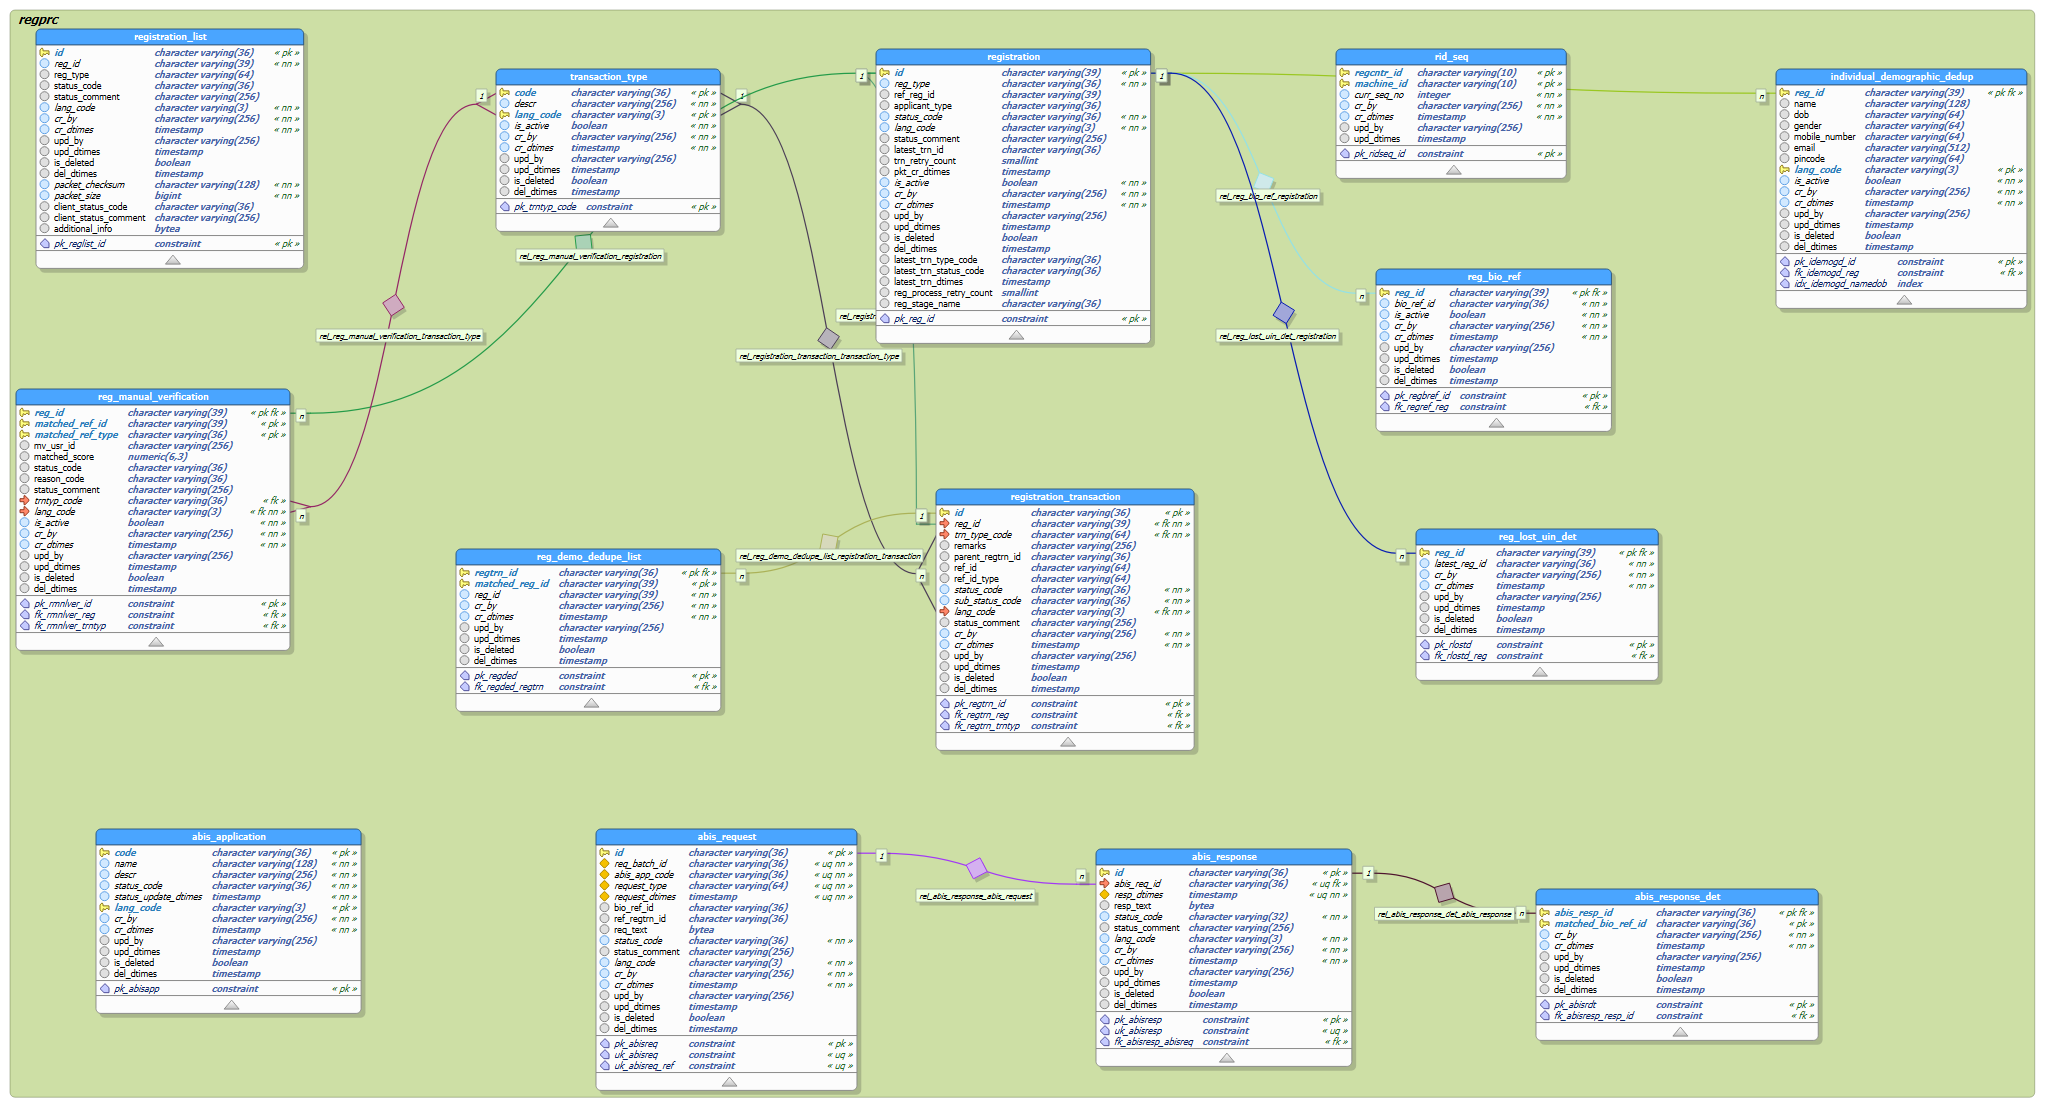
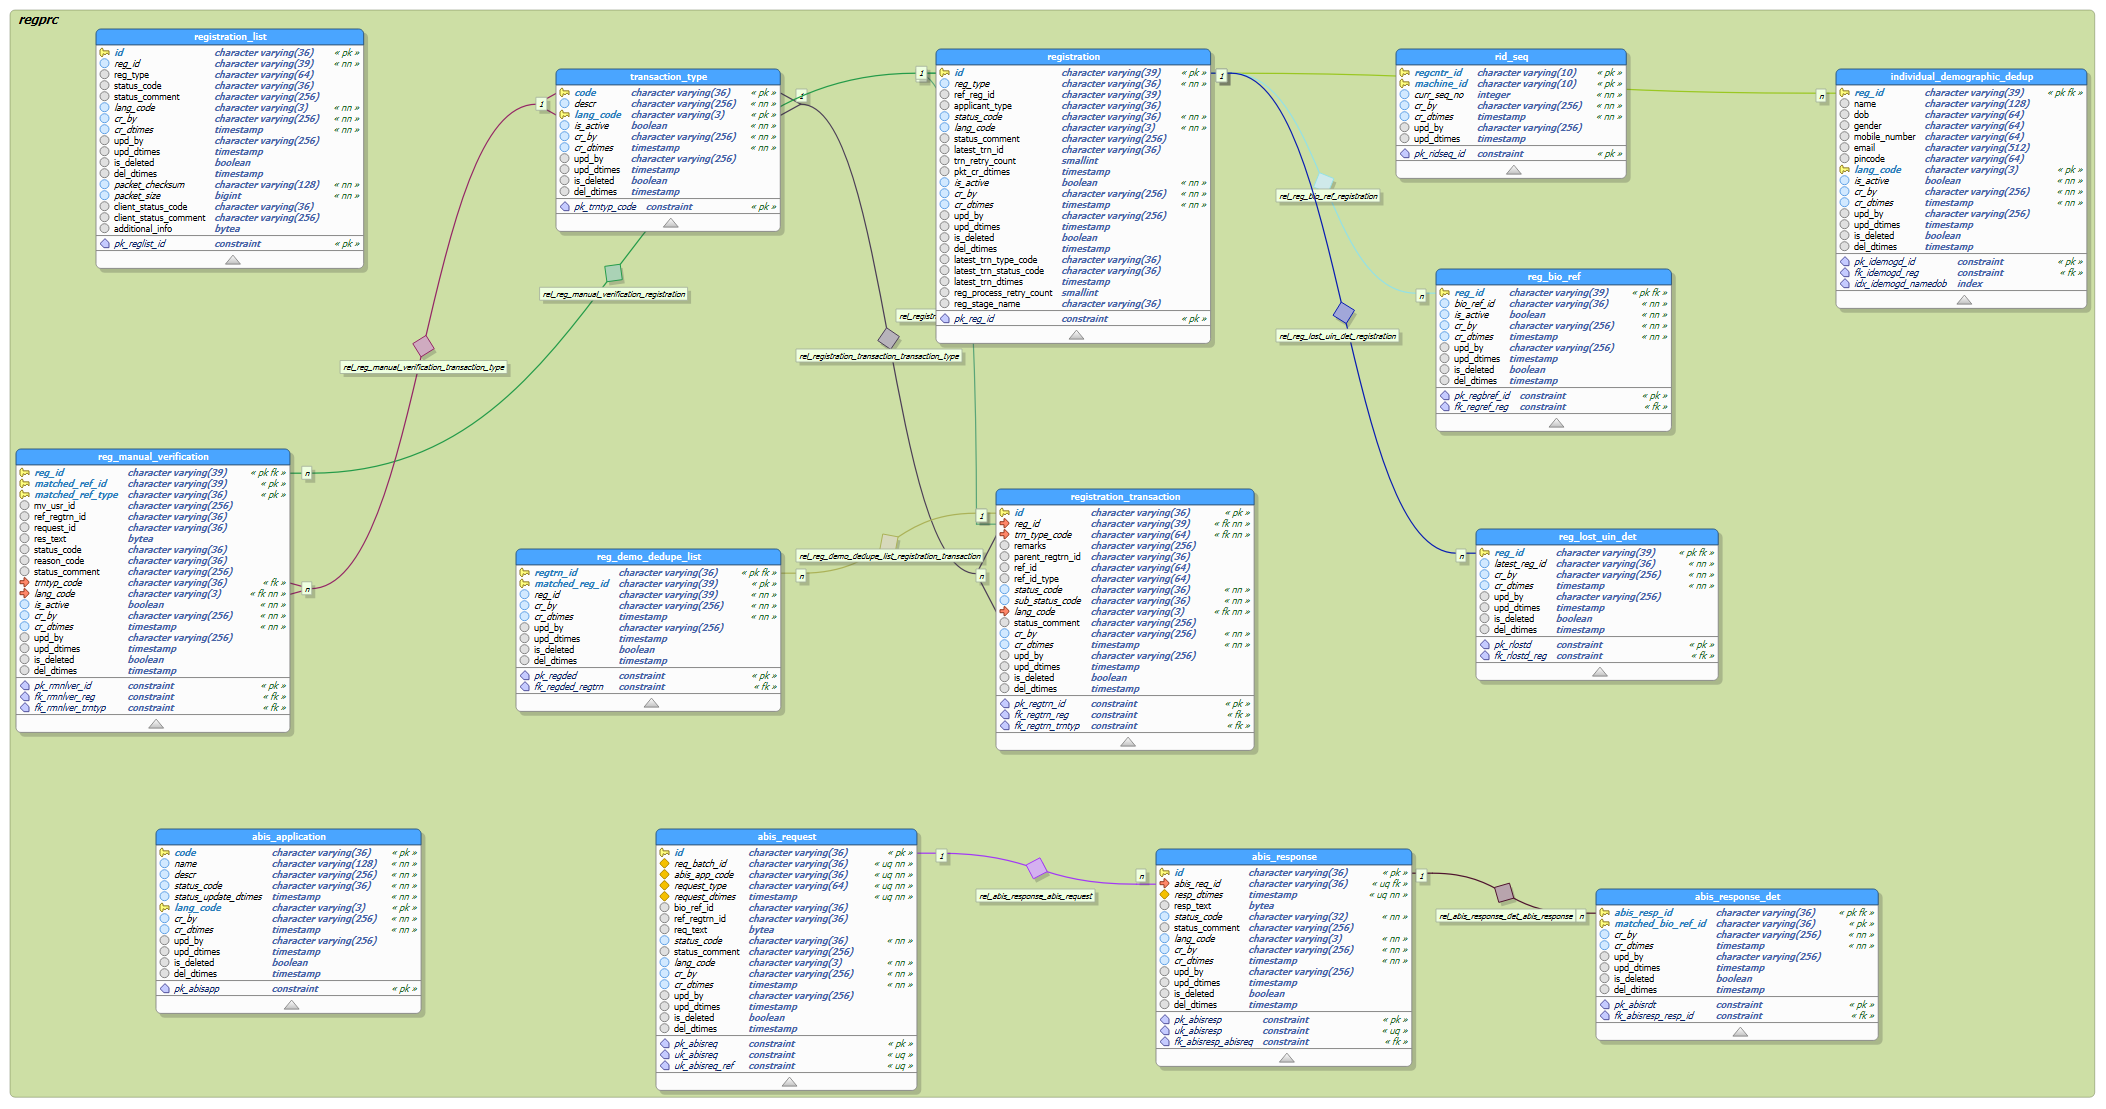
Updated manual verification table as per the new enhancements

diff --git a/db_release_scripts/README.MD b/db_release_scripts/README.MD
@@ -39,9 +39,6 @@
 
 * **mosip_<schema_name>/<schema_name>_revoke_db_deploy.sh:**  Script to revoke database deployment.
 
-* **mosip_release_registration_db_deployment.sh:**  DB release deployment script for all database.
-
-* **mosip_revoke_registration_db_deployment.sh:**  DB revoke deployment script for all database deployment.
 
 **Note:** SQL script files name under sql folder are appended with release version numbers( like **1.0.0**_regprc-scripts_release.sql), Same version number has to be passed as argument while executing release/revoke shell scripts. Ex. **$bash mosip_release_registration_db_deployment.sh 1.0.0**
 
@@ -88,11 +85,11 @@ Once completed with sourcing the database release files, Follow the DB release d
 		
 **Step 1** -> Make modification to all the respective database properties files **(<<schema>>_release_deploy.properties)** in the respective database directories. Path of properties file and variables list explained above. Once the properties files are ready then access the directory where the deployment script is kept.
 
-**Step 2** -> DB Release deployment for all databases, run the **"mosip_release_registration_db_deployment.sh"** script with release version as parameter.  To access and exeute **"mosip_release_registration_db_deployment.sh"** script, follow the below given sample commands:
+**Step 2** -> DB Release deployment for all databases, run the **"regprc_release_db_deploy.sh"** script with release version as parameter.  To access and exeute **"regprc_release_db_deploy.sh"** script, follow the below given sample commands:
 
-<em> **Enter:-bash-4.2$** cd /home/madmin/database_release/ </em>
+<em> **Enter:-bash-4.2$** cd /home/madmin/database_release/mosip_regprc </em>
 
-<em> **Enter:-bash-4.2$** bash mosip_release_registration_db_deployment.sh <release_version_number> </em>
+<em> **Enter:-bash-4.2$** bash regprc_release_db_deploy.sh  regprc_release_deploy.properties <release_version_number> </em>
 
 **Step 3** -> Please observe <em> Post Release Deployment Validation </em>  steps below
 
@@ -101,11 +98,11 @@ Once completed with sourcing the database release files, Follow the DB release d
 
 ## DB deployment revoke: (Optional: Execute only if db version release deployment revoking required)
 
-**Step 1** -> DB Revoke deployment for all databases, run the **"mosip_revoke_registration_db_deployment.sh"** script with release version as parameter.  To access and exeute **"mosip_revoke_registration_db_deployment.sh "** script, follow the below given commands:
+**Step 1** -> DB Revoke deployment for all databases, run the **"regprc_revoke_db_deploy.sh"** script with release version as parameter.  To access and exeute **"regprc_revoke_db_deploy.sh "** script, follow the below given commands:
 
-<em> **Enter:-bash-4.2$** cd /home/madmin/database_release/ </em>
+<em> **Enter:-bash-4.2$** cd /home/madmin/database_release/mosip_regprc </em>
 
-<em> **Enter:-bash-4.2$** bash mosip_revoke_registration_db_deployment.sh <release_version_number> </em>
+<em> **Enter:-bash-4.2$** bash regprc_revoke_db_deploy.sh regprc_release_deploy.properties <release_version_number> </em>
 
 **Step 2** -> Please observe <em> Post Release Deployment Validation </em>  steps below
 
